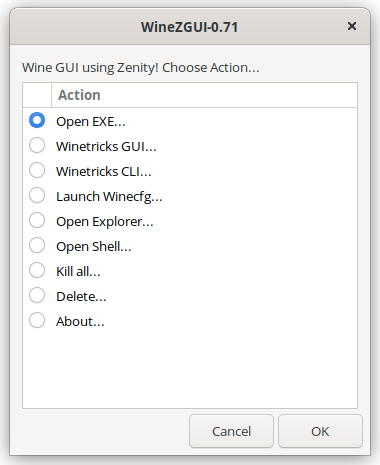
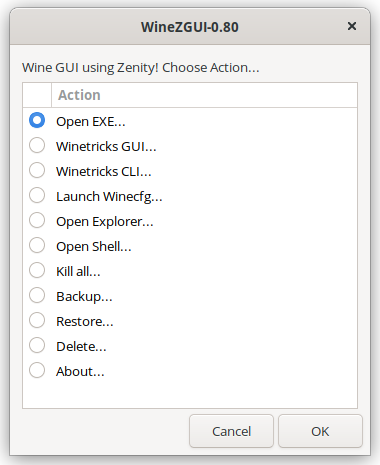
0.80 public release

diff --git a/README.md b/README.md
@@ -34,23 +34,18 @@ I highly recommend using flatpak version, because, distro based wine (wine-stagi
 
 #### Install WineZGUI flatpak on [supported Linux distros](https://flatpak.org/setup/)
 
-Download [io.github.fastrizwaan.WineZGUI_0_71_20220703.flatpak](https://github.com/fastrizwaan/WineZGUI-Releases/releases/download/WineZGUI_0_71_20220703/io.github.fastrizwaan.WineZGUI_0_71_20220703.flatpak) and install with the software center or using command line (just copy paste these on a terminal):
+Download and Install  [WineZGUI flatpak binary](https://github.com/fastrizwaan/WineZGUI-Releases/releases) 
 
-```
-flatpak --user remote-add --if-not-exists flathub https://flathub.org/repo/flathub.flatpakrepo
-flatpak --user -y install flathub org.winehq.Wine/x86_64/stable-21.08
-wget https://github.com/fastrizwaan/WineZGUI-Releases/releases/download/WineZGUI_0_71_20220703/io.github.fastrizwaan.WineZGUI_0_71_20220703.flatpak
-flatpak --user -y install io.github.fastrizwaan.WineZGUI_0_71_20220703.flatpak
-```
+### 
 
 ### Build and install flatpak from source
 
 Please install `flatpak-builder` in the Linux system before running these commands. Install script will install `org.freedesktop.Sdk/x86_64/21.08`and `org.winehq.Wine`
 
-##### Version 0.71 (copy paste this on a terminal)
+##### Version 0.80 (copy paste this on a terminal)
 
 ```
-git clone --depth 1 --branch 0.71 https://github.com/fastrizwaan/WineZGUI.git
+git clone --depth 1 --branch 0.80 https://github.com/fastrizwaan/WineZGUI.git
 ./WineZGUI/flatpak-manifest/install.sh
 ```
 
@@ -67,23 +62,23 @@ flatpak's optional requirement is `gnome-terminal` if we need to access prefix u
 
 Setup is instant as it copies a few files to specific directories.
 
-##### Version 0.71
+##### Version 0.80
 
-Downoad source [WineZGUI-0.71.tar.gz](https://github.com/fastrizwaan/WineZGUI/archive/refs/tags/0.71.tar.gz) or use `git tag 0.71`
+Downoad source [WineZGUI-0.80.tar.gz](https://github.com/fastrizwaan/WineZGUI/archive/refs/tags/0.80.tar.gz) or use `git tag 0.80`
 
 ##### Using tar.gz
 
 ```
-wget https://github.com/fastrizwaan/WineZGUI/archive/refs/tags/0.71.tar.gz
-tar -zxvf 0.71.tar.gz
-cd WineZGUI-0.71
+wget https://github.com/fastrizwaan/WineZGUI/archive/refs/tags/0.80.tar.gz
+tar -zxvf 0.80.tar.gz
+cd WineZGUI-0.80
 sudo ./setup --install ; #systemwide
 ```
 
-##### git tag 0.71
+##### git tag 0.80
 
 ```
-git clone --depth 1 --branch 0.71 https://github.com/fastrizwaan/WineZGUI.git
+git clone --depth 1 --branch 0.80 https://github.com/fastrizwaan/WineZGUI.git
 cd WineZGUI
 sudo ./setup --install ; #systemwide
 ```
